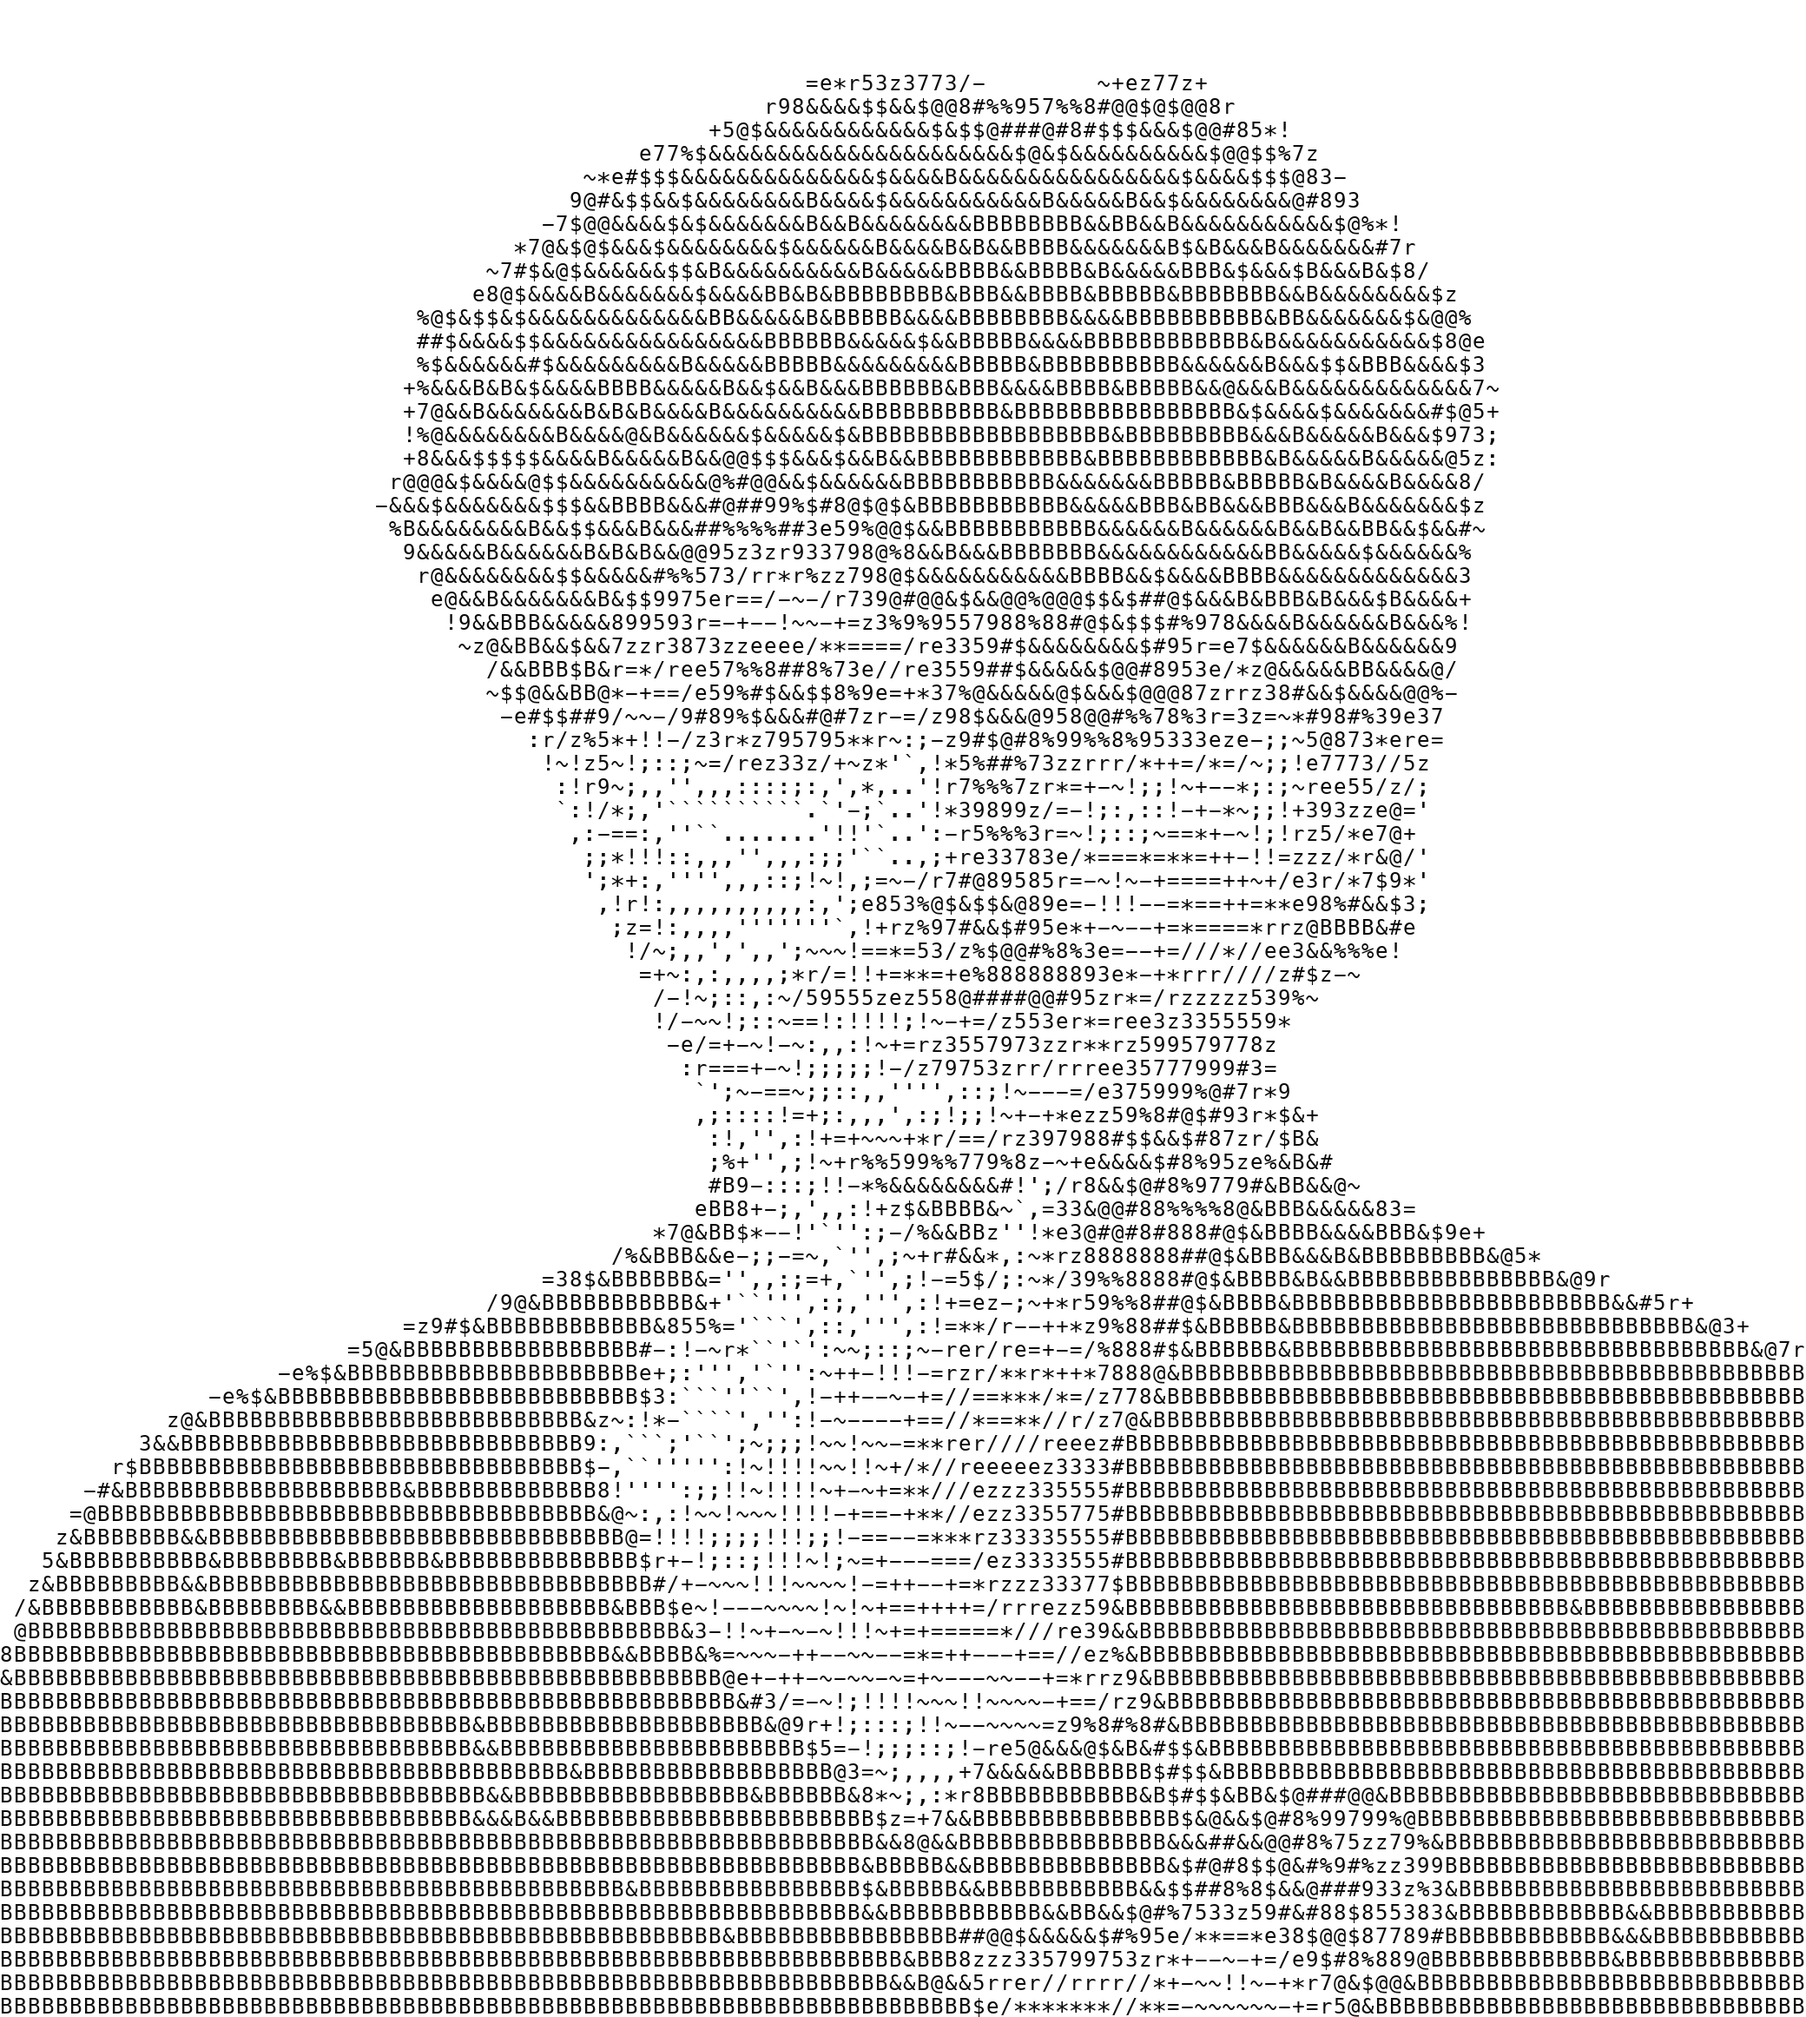
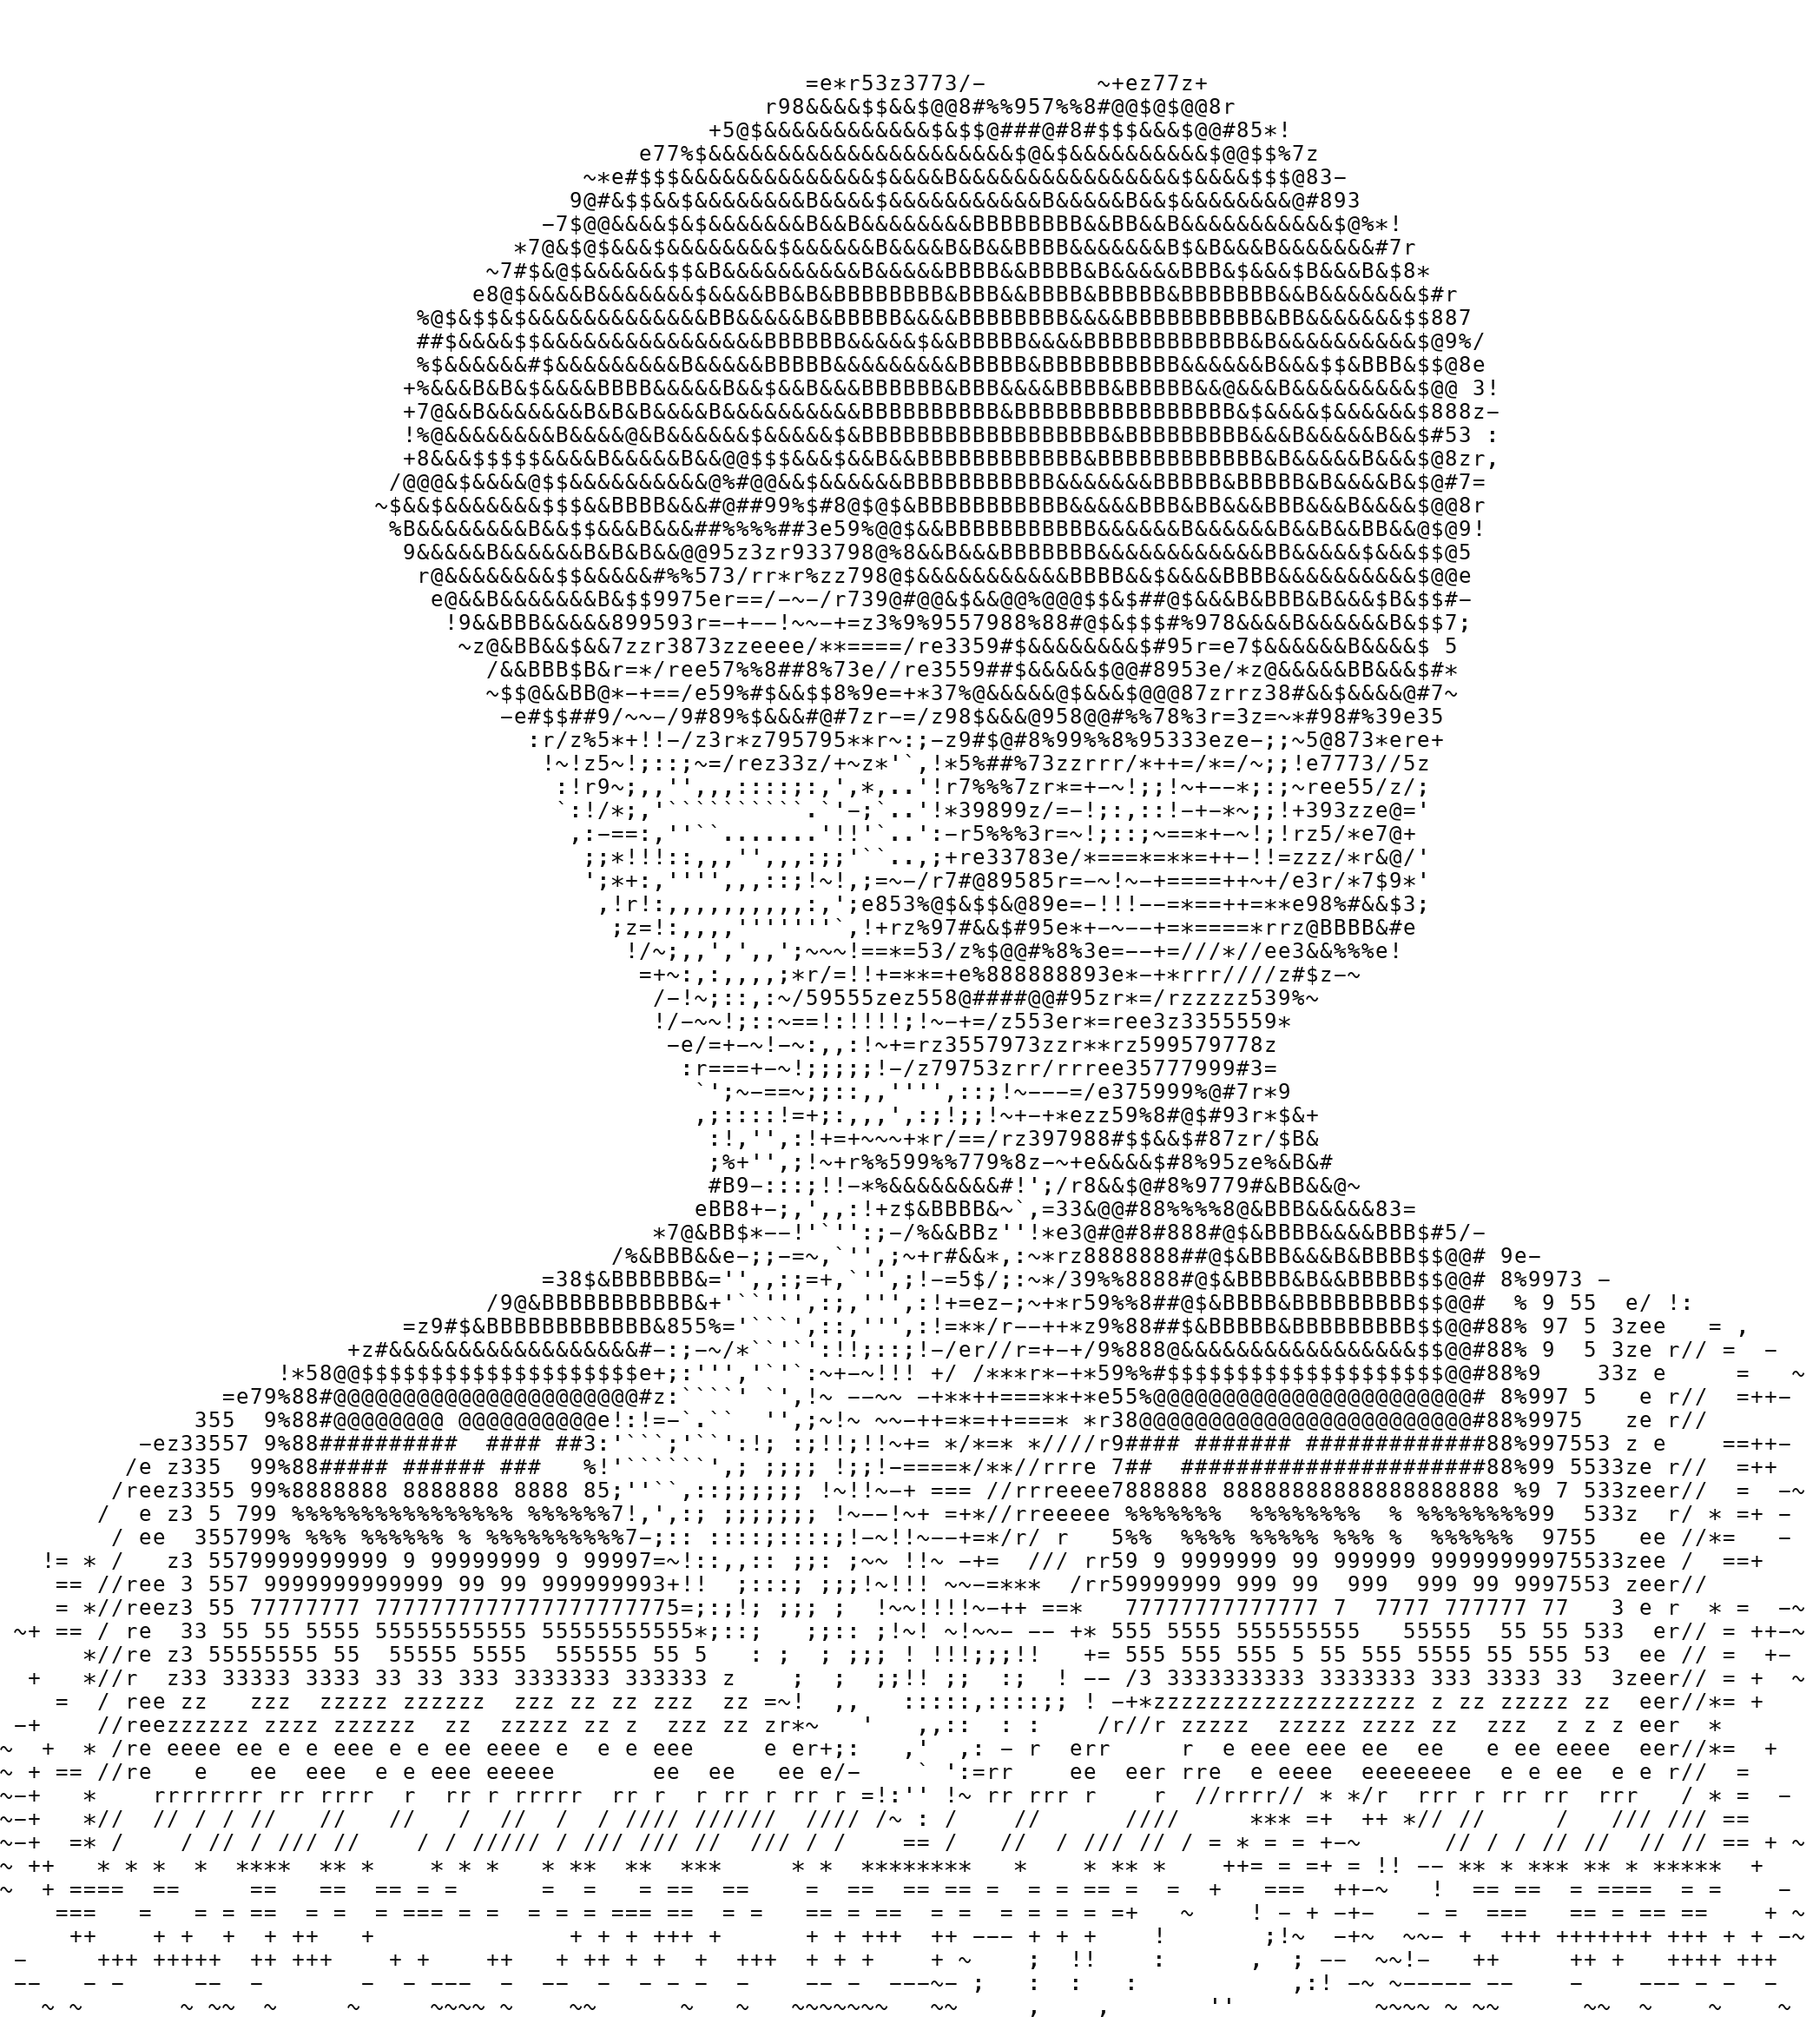
Dissolve hero ASCII edges by character, not opacity
Replace the CSS opacity mask with a character-level edge falloff baked
into the ASCII generation. Toward the left, right, and bottom edges,
characters progressively drop out (probabilistic dropout that lets
denser cells survive slightly longer) and shift to lighter glyphs, so
the figure scatters into sparse specks and dissolves into the page
instead of fading as a flat semi-transparent wash. The face/top stays
dense.

Changed region(s): [[0.0, 0.5891, 1.0, 1.0], [0.7812, 0.124, 0.8438, 0.3721]]

diff --git a/components/Hero.tsx b/components/Hero.tsx
@@ -120,12 +120,6 @@ const Hero = () => {
             priority
             unoptimized
             className="object-contain"
-            style={{
-              WebkitMaskImage:
-                "linear-gradient(to bottom, black 58%, transparent 90%)",
-              maskImage:
-                "linear-gradient(to bottom, black 58%, transparent 90%)",
-            }}
           />
         </motion.div>
       </motion.div>
